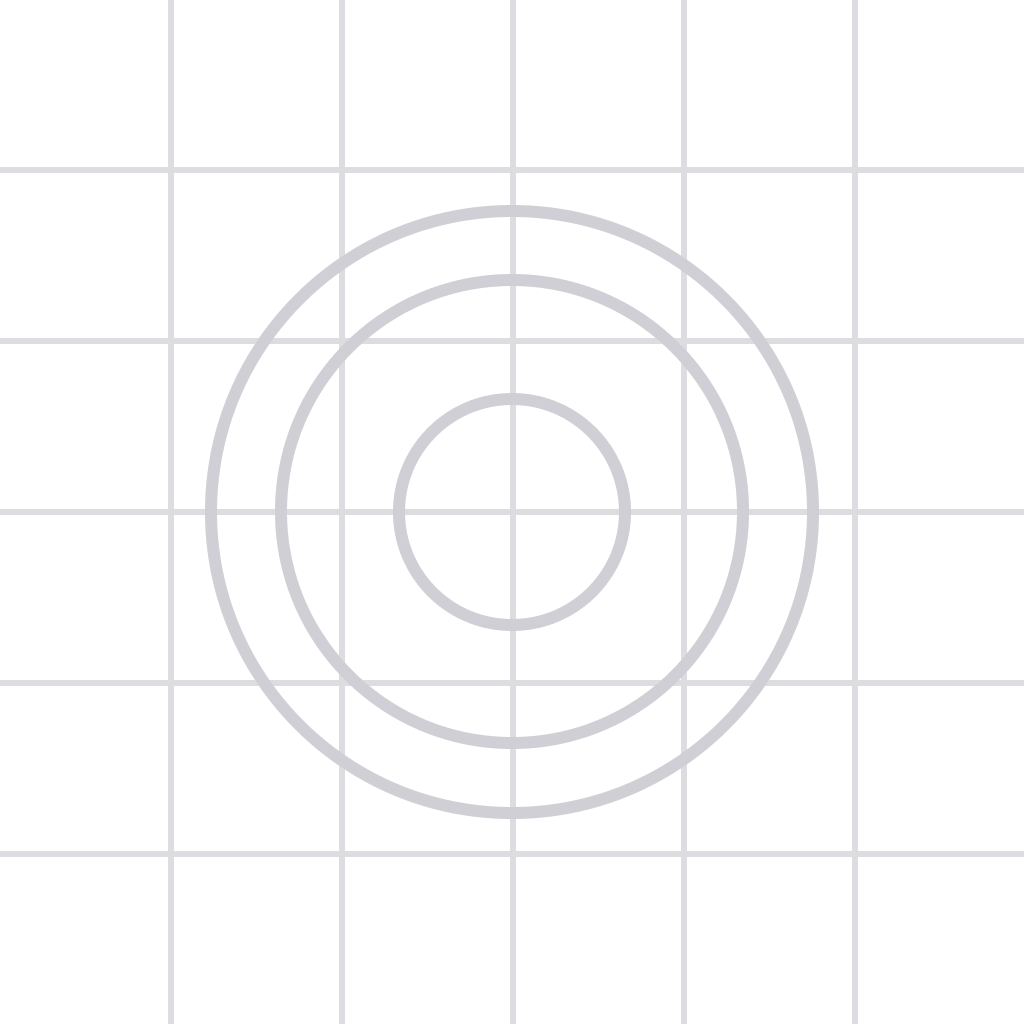
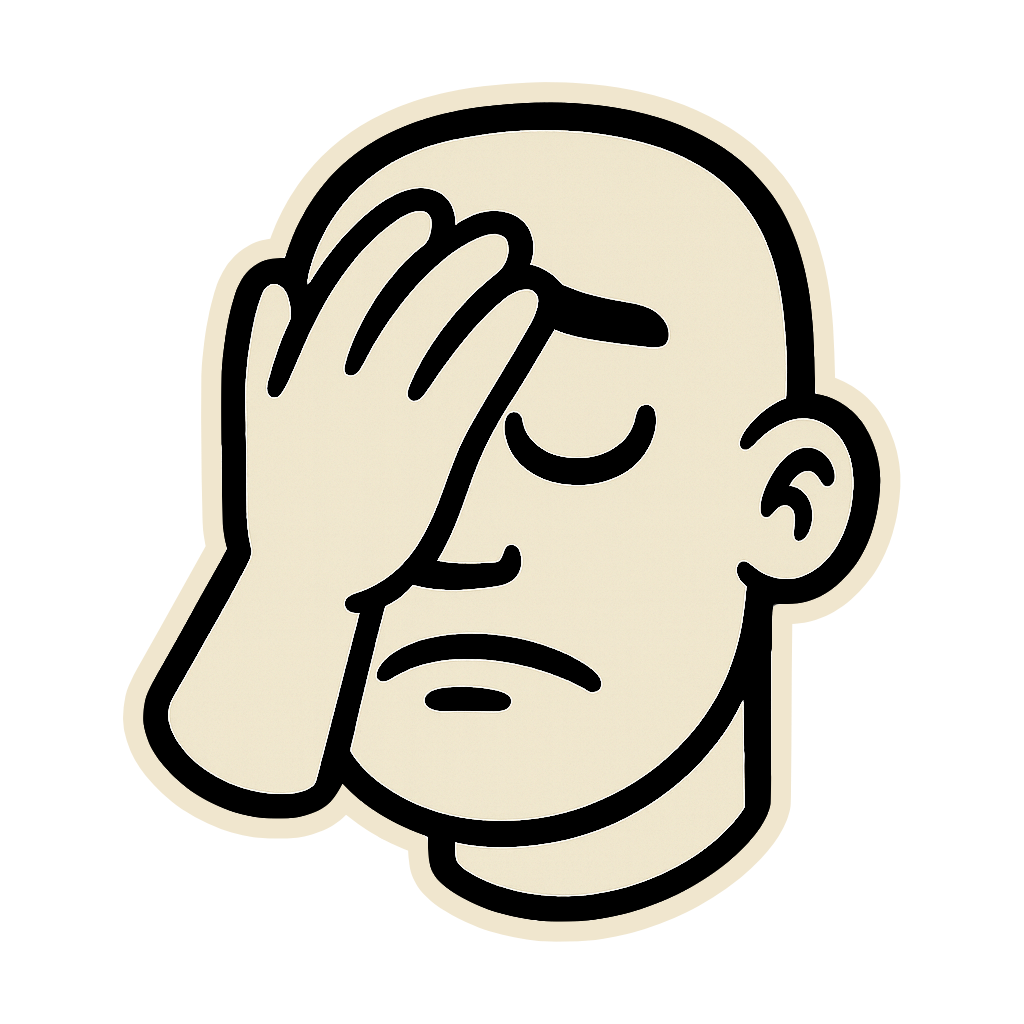
feat: remove unused tab layout and settings components, update routing in RootLayout

diff --git a/components/ui/IconSymbol.tsx b/components/ui/IconSymbol.tsx
@@ -1,11 +1,14 @@
 // Fallback for using MaterialIcons on Android and web.
 
-import MaterialIcons from '@expo/vector-icons/MaterialIcons';
-import { SymbolWeight, SymbolViewProps } from 'expo-symbols';
-import { ComponentProps } from 'react';
-import { OpaqueColorValue, type StyleProp, type TextStyle } from 'react-native';
+import MaterialIcons from "@expo/vector-icons/MaterialIcons";
+import { SymbolViewProps, SymbolWeight } from "expo-symbols";
+import { ComponentProps } from "react";
+import { OpaqueColorValue, type StyleProp, type TextStyle } from "react-native";
 
-type IconMapping = Record<SymbolViewProps['name'], ComponentProps<typeof MaterialIcons>['name']>;
+type IconMapping = Record<
+  SymbolViewProps["name"],
+  ComponentProps<typeof MaterialIcons>["name"]
+>;
 type IconSymbolName = keyof typeof MAPPING;
 
 /**
@@ -14,10 +17,13 @@ type IconSymbolName = keyof typeof MAPPING;
  * - see SF Symbols in the [SF Symbols](https://developer.apple.com/sf-symbols/) app.
  */
 const MAPPING = {
-  'house.fill': 'home',
-  'paperplane.fill': 'send',
-  'chevron.left.forwardslash.chevron.right': 'code',
-  'chevron.right': 'chevron-right',
+  "house.fill": "home",
+  "paperplane.fill": "send",
+  "chevron.left.forwardslash.chevron.right": "code",
+  "chevron.right": "chevron-right",
+  "chevron.left": "chevron-left",
+  // Gear / settings icon
+  gear: "settings",
 } as IconMapping;
 
 /**
@@ -37,5 +43,12 @@ export function IconSymbol({
   style?: StyleProp<TextStyle>;
   weight?: SymbolWeight;
 }) {
-  return <MaterialIcons color={color} size={size} name={MAPPING[name]} style={style} />;
+  return (
+    <MaterialIcons
+      color={color}
+      size={size}
+      name={MAPPING[name]}
+      style={style}
+    />
+  );
 }

diff --git a/app/_layout.tsx b/app/_layout.tsx
@@ -30,7 +30,8 @@ export default function RootLayout() {
           value={colorScheme === "dark" ? DarkTheme : DefaultTheme}
         >
           <Stack>
-            <Stack.Screen name="(tabs)" options={{ headerShown: false }} />
+            <Stack.Screen name="index" options={{ headerShown: false }} />
+            <Stack.Screen name="settings" options={{ headerShown: false }} />
             <Stack.Screen name="+not-found" />
           </Stack>
           <StatusBar style="auto" />